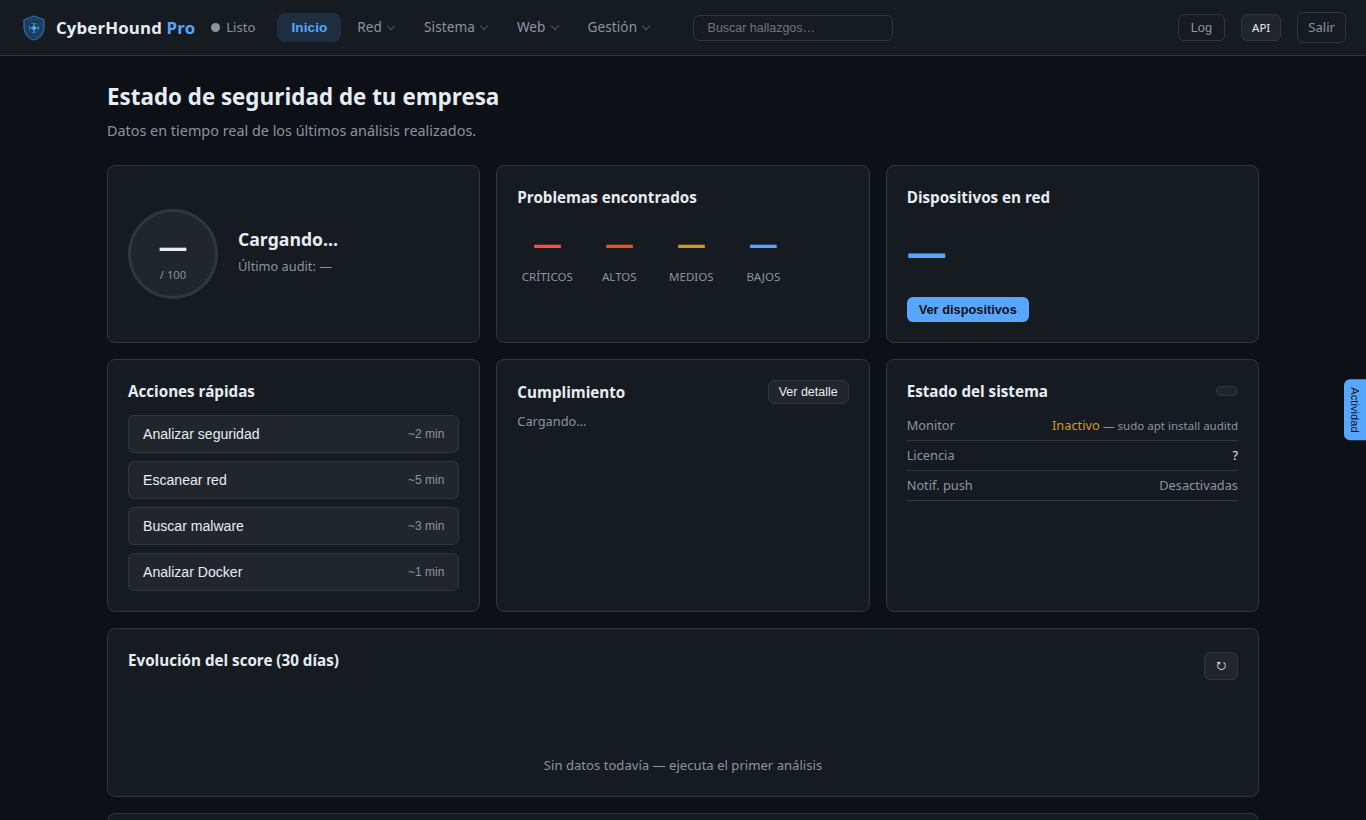
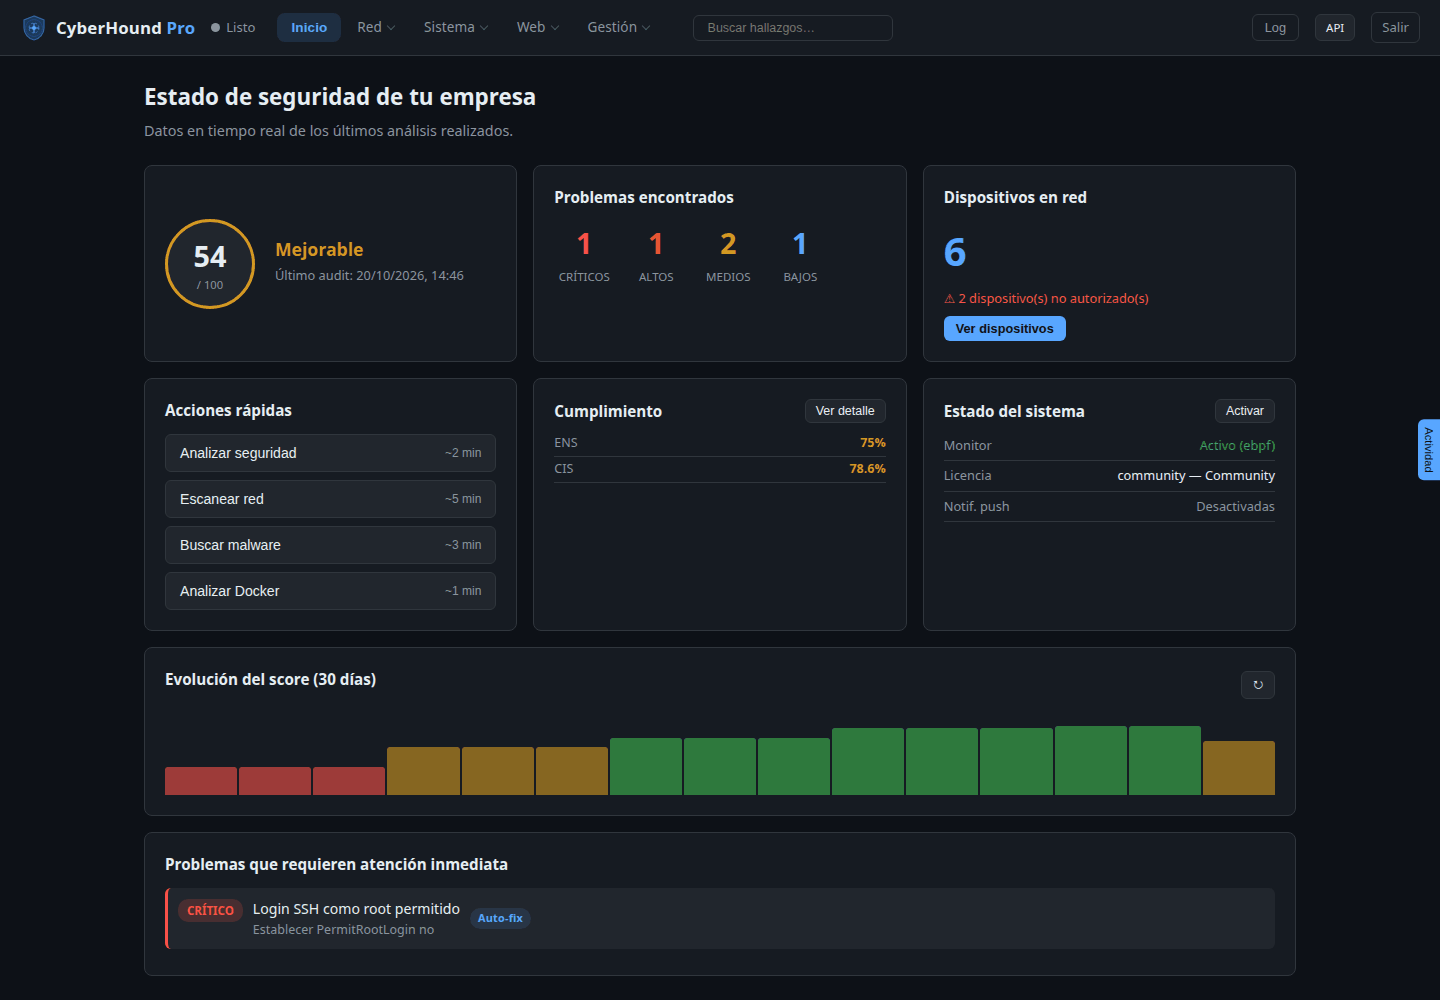
docs: capturas de la interfaz actual en el README y documentación al día
- Sección Capturas con las 19 secciones, login, menú y vista móvil (datos ficticios).
- Badge y tabla de tests: 628 tests en 39 ficheros (antes 522/610/195).
- REVISION-SEGURIDAD §5 ya no dice que los cambios están sin push.

diff --git a/README.md b/README.md
@@ -5,7 +5,7 @@
 > Analiza tu red, servidores, contenedores y código. Detecta vulnerabilidades, malware y configuraciones inseguras. Corrige automáticamente. Monitoriza en tiempo real.
 
 [![Python 3.12](https://img.shields.io/badge/python-3.12-blue.svg)](https://python.org)
-[![Tests](https://img.shields.io/badge/tests-522%20passed-green.svg)](#tests)
+[![Tests](https://img.shields.io/badge/tests-628%20passed-green.svg)](#tests)
 [![License: AGPL v3](https://img.shields.io/badge/License-AGPL_v3-blue.svg)](LICENSE)
 
 ---
@@ -13,6 +13,7 @@
 ## Índice
 
 - [¿Qué hace?](#qué-hace)
+- [Capturas](#capturas)
 - [Requisitos](#requisitos)
 - [Instalación rápida](#instalación-rápida)
 - [Funcionalidades](#funcionalidades)
@@ -44,6 +45,139 @@ CyberHound Pro es una herramienta todo-en-uno de ciberseguridad orientada a ento
 | **📊 Scoring** | Score contextual 0-100 con factor de exposición |
 | **📡 Monitoreo** | Panel de actividad en tiempo real, alertas automáticas |
 | **🛡 SIEM** | Wazuh, Elasticsearch, Splunk HEC |
+
+---
+
+## Capturas
+
+> Capturas de la interfaz actual tomadas sobre una instancia local con **datos de ejemplo ficticios** (red `10.10.0.0/24`, dominio `ejemplo-demo.es`).
+
+<img src="docs/img/capturas/dashboard.png" alt="Panel de inicio">
+
+<p><img src="docs/img/capturas/login.png" alt="Login" width="420"> <img src="docs/img/capturas/movil.png" alt="Vista móvil" width="200"></p>
+
+Menú de navegación (las secciones se agrupan en Red, Sistema, Web y Gestión):
+
+<img src="docs/img/capturas/menu.png" alt="Menú de navegación">
+
+<details>
+<summary><b>Ver todas las secciones (19 capturas)</b></summary>
+
+### Inicio
+
+Score, hallazgos por severidad, dispositivos, cumplimiento y evolución del score a 30 días.
+
+<img src="docs/img/capturas/dashboard.png" alt="Inicio">
+
+### Red › Mi Red
+
+Descubrimiento de dispositivos, auditoría SSH en paralelo y CVEs.
+
+<img src="docs/img/capturas/network.png" alt="Red › Mi Red">
+
+### Red › Subdominios
+
+Enumeración por Certificate Transparency.
+
+<img src="docs/img/capturas/subenum.png" alt="Red › Subdominios">
+
+### Red › DNS Security
+
+SPF, DMARC, DKIM, DNSSEC y CAA.
+
+<img src="docs/img/capturas/dnssec.png" alt="Red › DNS Security">
+
+### Red › Intel
+
+Consulta de IPs, dominios y hashes en Shodan, VirusTotal, AbuseIPDB, GreyNoise.
+
+<img src="docs/img/capturas/intel.png" alt="Red › Intel">
+
+### Sistema › Seguridad
+
+Hardening del propio servidor con corrección automática.
+
+<img src="docs/img/capturas/audit.png" alt="Sistema › Seguridad">
+
+### Sistema › Malware
+
+YARA, hashes, auditd, cron y webshells.
+
+<img src="docs/img/capturas/malware.png" alt="Sistema › Malware">
+
+### Sistema › Docker
+
+Configuración de Docker y Kubernetes.
+
+<img src="docs/img/capturas/docker.png" alt="Sistema › Docker">
+
+### Sistema › Código
+
+bandit, shellcheck, eslint y secretos.
+
+<img src="docs/img/capturas/code.png" alt="Sistema › Código">
+
+### Sistema › Servicios
+
+nginx, apache, MySQL, PostgreSQL, Redis, MongoDB.
+
+<img src="docs/img/capturas/services.png" alt="Sistema › Servicios">
+
+### Web › TLS/SSL
+
+Caducidad, autofirmados, protocolos y claves débiles.
+
+<img src="docs/img/capturas/tls.png" alt="Web › TLS/SSL">
+
+### Web › Cabeceras Web
+
+HSTS, CSP, X-Frame-Options, cookies, fuga de información.
+
+<img src="docs/img/capturas/webhdr.png" alt="Web › Cabeceras Web">
+
+### Web › Exposición Web
+
+.git, .env, copias de seguridad y métodos HTTP peligrosos.
+
+<img src="docs/img/capturas/webexp.png" alt="Web › Exposición Web">
+
+### Web › API / CORS
+
+CORS, documentación de API expuesta, GraphQL.
+
+<img src="docs/img/capturas/apisec.png" alt="Web › API / CORS">
+
+### Web › Nuclei
+
+Escáner por plantillas (CVEs y exposiciones).
+
+<img src="docs/img/capturas/nuclei.png" alt="Web › Nuclei">
+
+### Gestión › Historial
+
+Todos los análisis con su score y comparación.
+
+<img src="docs/img/capturas/history.png" alt="Gestión › Historial">
+
+### Gestión › Monitor
+
+Monitor eBPF/auditd en tiempo real y análisis de imágenes Docker.
+
+<img src="docs/img/capturas/monitor.png" alt="Gestión › Monitor">
+
+### Gestión › Informes
+
+HTML, PDF, playbook Ansible, JSON para SIEM, compliance e importación de auditorías.
+
+<img src="docs/img/capturas/reports.png" alt="Gestión › Informes">
+
+### Gestión › Configuración
+
+API keys, notificaciones, SIEM, ticketing, scheduler, usuarios, 2FA, YARA, agentes, licencia, LDAP, cuarentena, SBOM, Ansible.
+
+<img src="docs/img/capturas/settings.png" alt="Gestión › Configuración">
+
+</details>
 
 ---
 
@@ -444,7 +578,7 @@ siem:
 
 ## Tests
 
-**195 tests** distribuidos en 7 ficheros:
+**628 tests** distribuidos en 39 ficheros (`tests/test_*.py`):
 
 ```bash
 # Ejecutar todos los tests
@@ -454,15 +588,14 @@ pytest tests/ -v
 pytest tests/ --cov=cyberhound --cov-report=term-missing
 ```
 
-| Fichero | Tests | Cobertura |
-|---------|-------|-----------|
-| `test_security.py` | 45 | RateLimiter, InputValidator, TLS |
-| `test_database.py` | 40 | Scans, assets, supresiones, usuarios, stats |
-| `test_hardening.py` | 22 | Checks individuales + HardeningFixer |
-| `test_scheduler.py` | 13 | Scheduler, entries, run_now |
-| `test_scoring.py` | 25 | Motor de scoring, contexto, grades |
-| `test_config.py` | 22 | Validación eager, save/reload |
-| `test_docker_k8s.py` | 28 | Docker y Kubernetes checks |
+| Área | Ficheros |
+|------|----------|
+| Auth y seguridad web | `test_auth_security.py`, `test_login_2fa.py`, `test_totp.py`, `test_passwords.py`, `test_csp.py`, `test_security.py`, `test_ws_message_validation.py` |
+| Scanners | `test_scanners_core.py`, `test_hardening.py`, `test_hardening_v63.py`, `test_docker_k8s.py`, `test_docker_image.py`, `test_tls_scan.py`, `test_dns_security.py`, `test_web_headers.py`, `test_web_exposure.py`, `test_api_security.py`, `test_nuclei_scan.py`, `test_subdomain_enum.py`, `test_services_audit.py`, `test_openssh_backport.py` |
+| Scoring y compliance | `test_scoring.py`, `test_scoring_caps.py`, `test_compliance_drops.py`, `test_compliance_pdf.py` |
+| Plataforma | `test_database.py`, `test_config.py`, `test_scheduler.py`, `test_agent_config.py`, `test_licensing.py`, `test_metrics.py`, `test_rollback.py`, `test_audit_import.py`, `test_quarantine_sbom.py` |
+| Integraciones | `test_intel_routes.py`, `test_ticketing.py`, `test_llm.py`, `test_new_modules.py` |
+| Frontend | `test_frontend_integrity.py` |
 
 ---
 
@@ -521,7 +654,7 @@ pytest tests/ --cov=cyberhound --cov-report=term-missing
 | Ticketing | `ticketing.py` | Jira Cloud + ServiceNow, ticket por hallazgo nuevo (sin duplicar) |
 | Push | WS `/ws/push` | Notificaciones en tiempo real sin polling |
 | CSS | `style.css` | Responsive mobile/tablet/print |
-| Tests | `tests/` | **610 tests pytest** |
+| Tests | `tests/` | **628 tests pytest** |
 
 ### 🔜 Ideas para futuras versiones
 

diff --git a/docs/REVISION-SEGURIDAD.md b/docs/REVISION-SEGURIDAD.md
@@ -46,12 +46,12 @@
 
 ## 5. Persistencia / despliegue
 
-Los cambios (UI + backend) están **commiteados en git (local, sin push)** y
-desplegados en caliente al contenedor con `docker cp` + `docker restart`
-(sobreviven a restart/reboot). Para hacerlos **permanentes ante un recrear/rebuild**
-del contenedor hay que **reconstruir la imagen** `cyberhound-pro` y recrear el
-contenedor con la **misma** config de compose/Caddy → el dominio interno sigue
-igual. (Recomendado coordinarlo por la sensibilidad del acceso.)
+Los cambios (UI + backend) están **commiteados y subidos** al repositorio
+remoto. El contenedor corre desde una imagen con el código dentro (sin bind-mount),
+así que un cambio no queda desplegado solo por estar en git: hay que
+**reconstruir la imagen** `cyberhound-pro` y recrear el contenedor con la
+**misma** config de compose/proxy (`docker compose up -d --build`); los datos y
+la configuración persisten en el volumen `/data`, y el dominio interno sigue igual.
 
 ## 6. QA exhaustivo del frontend (addendum)
 
